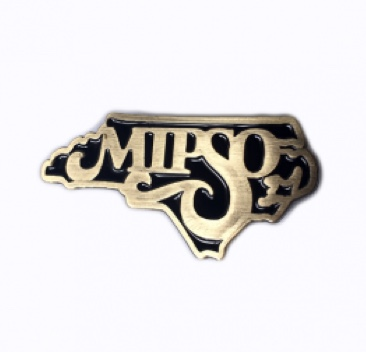
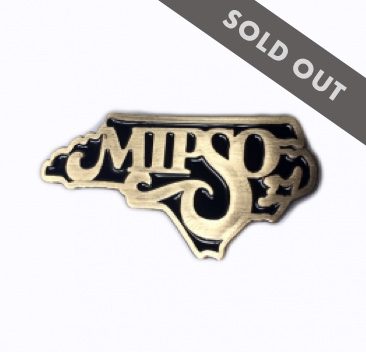
Cursor not allowed + sold out merch images

Changed region(s): [[0.4208, 0.0, 1.0, 0.4375]]

diff --git a/assets/stylesheets/stylesheet.css b/assets/stylesheets/stylesheet.css
@@ -177,6 +177,10 @@ a:visited {
   color: #D8D8D8;
 }
 
+.filterDiv:hover {
+  cursor: not-allowed;
+}
+
 /*MERCH PAGE STYLING ENDS  */
 
 /*DISCOGRAPHY PAGE STYLING STARTS*/
